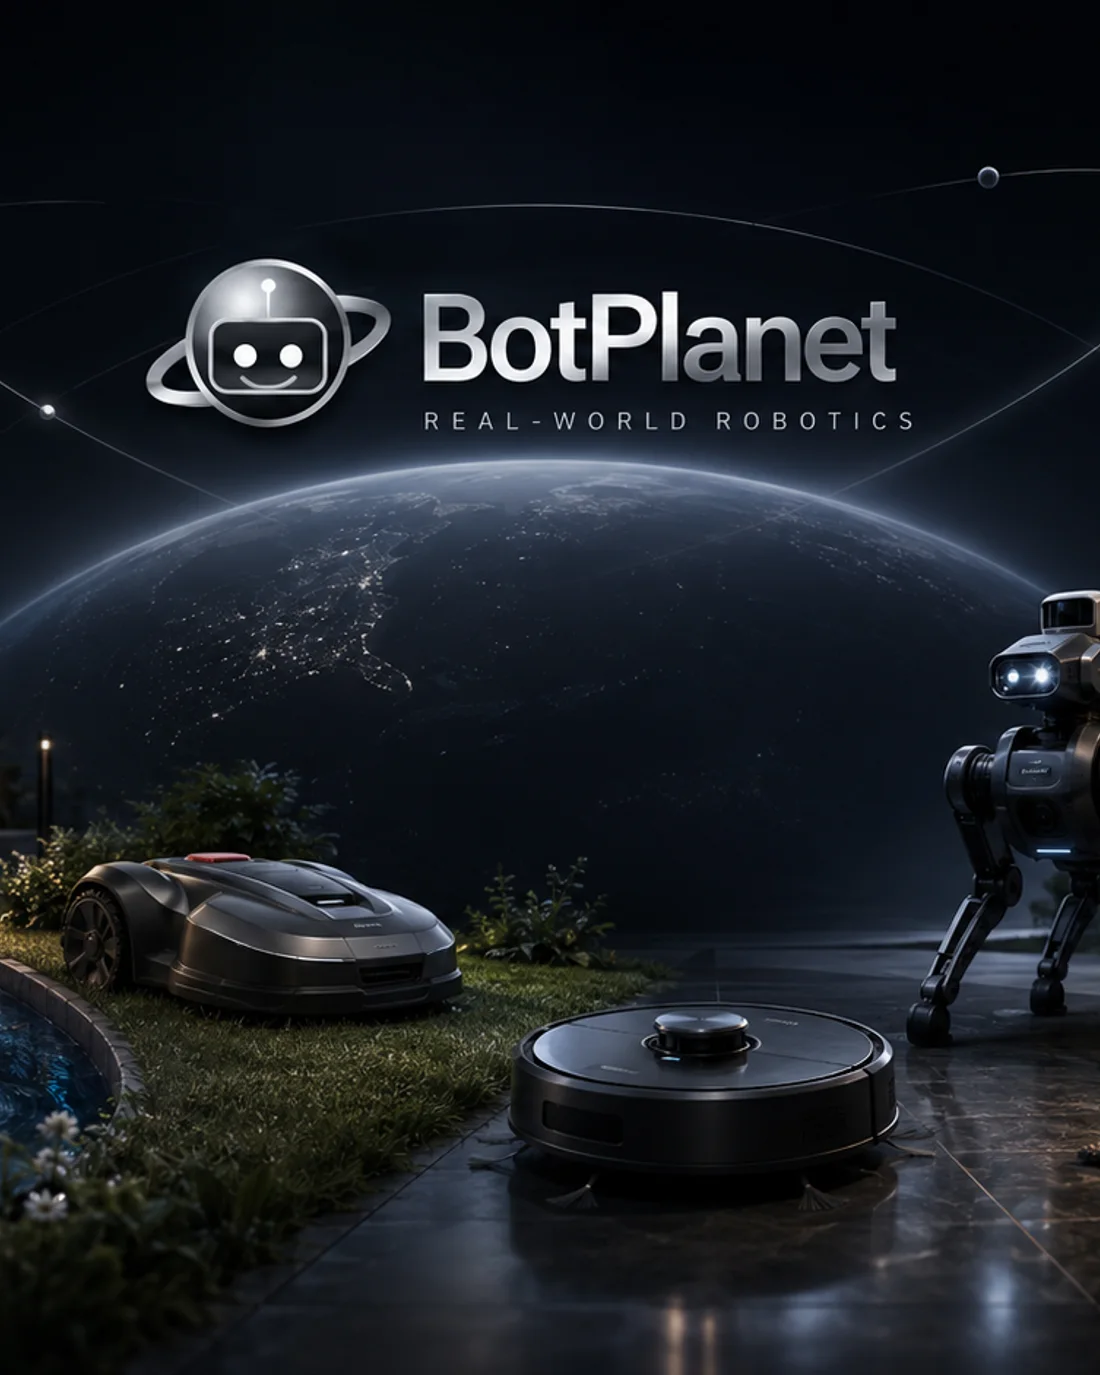
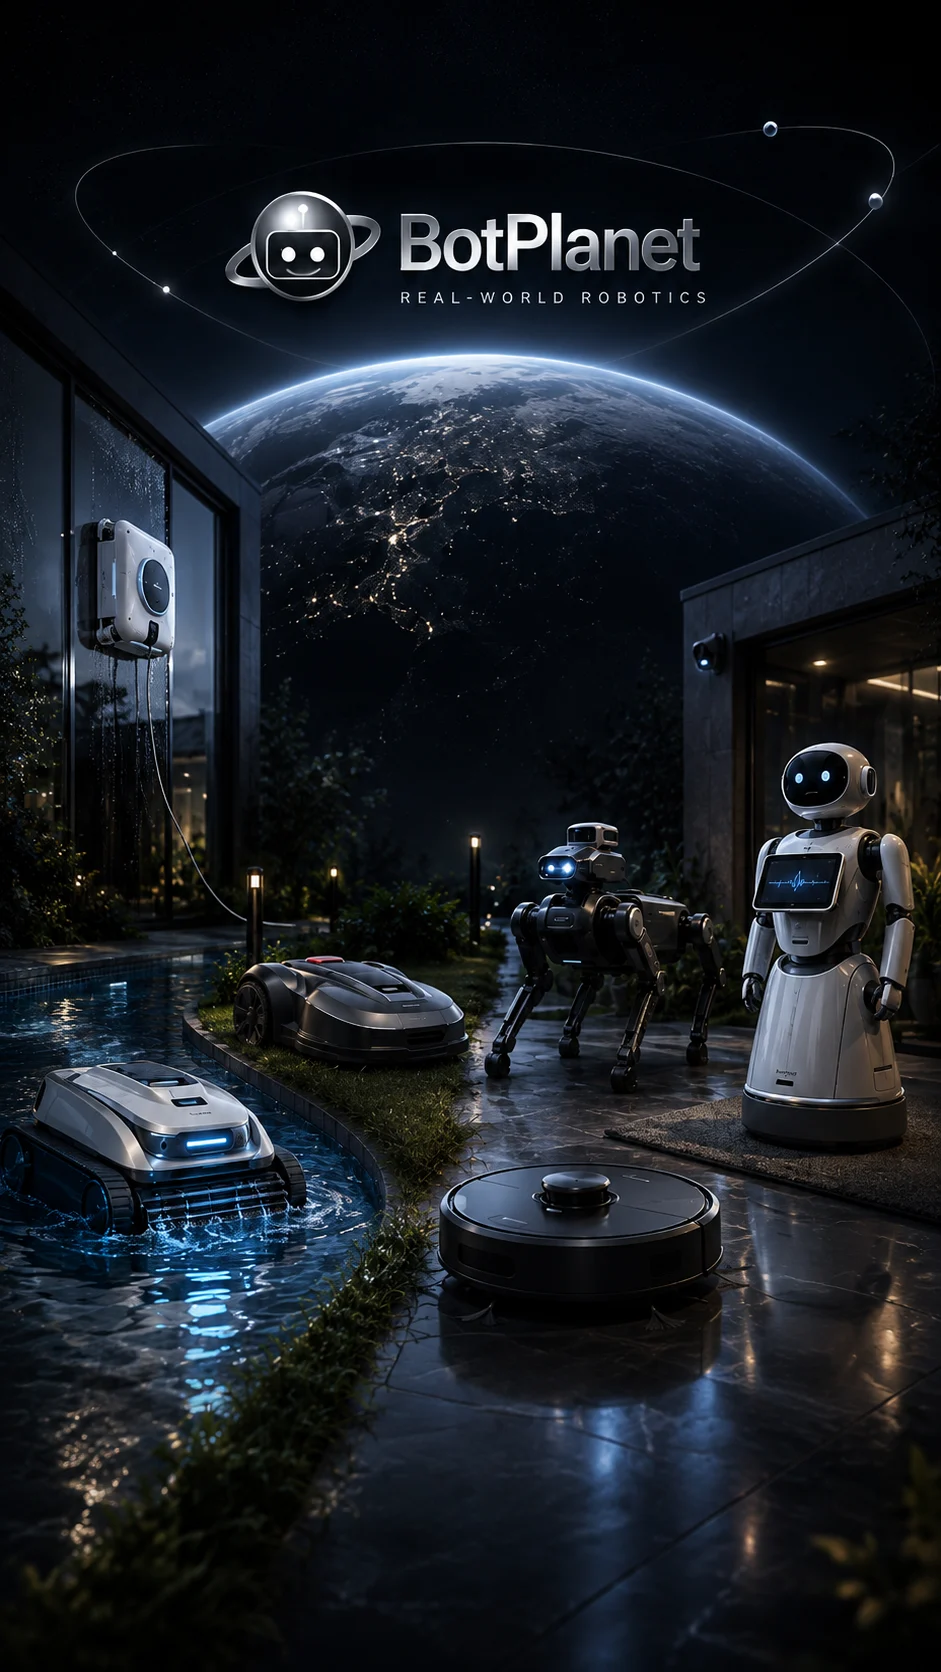
Swap in the owner's authored hero pair
Both files are now composed rather than cropped. The portrait version is the
reason: my 4:5 crop of the wide master kept the logo, the mower, the vacuum and
the patrol robot and lost the pool cleaner and the companion — on a hero whose
whole job is showing all six categories at once, that is half the message gone.
The owner redrew it at 941x1672 with every machine in frame.

Checksums, dimensions and the width/height attributes updated with them, so the
rights records still match the bytes and the picture still reserves its box
before it loads.

Claude-Session: https://claude.ai/code/session_01MSWCMvmFvEGhBcdvViWF4h

diff --git a/apps/web/src/content/media/assets.ts b/apps/web/src/content/media/assets.ts
@@ -116,8 +116,8 @@ export const ORIGINAL_ASSETS: MediaAssetRecord[] = [
   },
   ...(
     [
-      ["hero-home-desktop", "/media/home/hero-desktop.webp", 1672, 941, "sha256:2c5967d28938e40c395277b7416cdb5982778c3e82cbc95b37a60e6590fd5765"],
-      ["hero-home-mobile", "/media/home/hero-mobile.webp", 1100, 1375, "sha256:ed375c791ee6443f4c613cb9cb2a69b629a2f1cf9317fc8cc2ac41e4e4984198"],
+      ["hero-home-desktop", "/media/home/hero-desktop.webp", 1672, 941, "sha256:ce8f54daae0b0f6f71a1eb087a47b22e2b128846cd95dcd58d77af2374728f28"],
+      ["hero-home-mobile", "/media/home/hero-mobile.webp", 941, 1672, "sha256:fed2c212c664eb81cdacd759cf827d48fd9b521a60b3f18d6b3a5c97a0449ae6"],
     ] as const
   ).map(([id, src, width, height, checksum]): MediaAssetRecord => ({
     ...base(id, "botplanet_original"),
@@ -144,7 +144,7 @@ export const ORIGINAL_ASSETS: MediaAssetRecord[] = [
     presentation: "bleed",
     retrievedDate: "2026-08-03",
     lastCheckedDate: "2026-08-03",
-    notes: "Owner-created, supplied 3 August 2026. The mobile file is a 4:5 crop of the same master, taken centre, with no recolour.",
+    notes: "Owner-created, supplied 3 August 2026. Both are authored compositions, not crops — the portrait version is recomposed so all six machines survive on a phone, which a centre crop of the wide file could not do.",
   })),
   {
     ...base("promo-botmatch-pool", "botplanet_original"),
